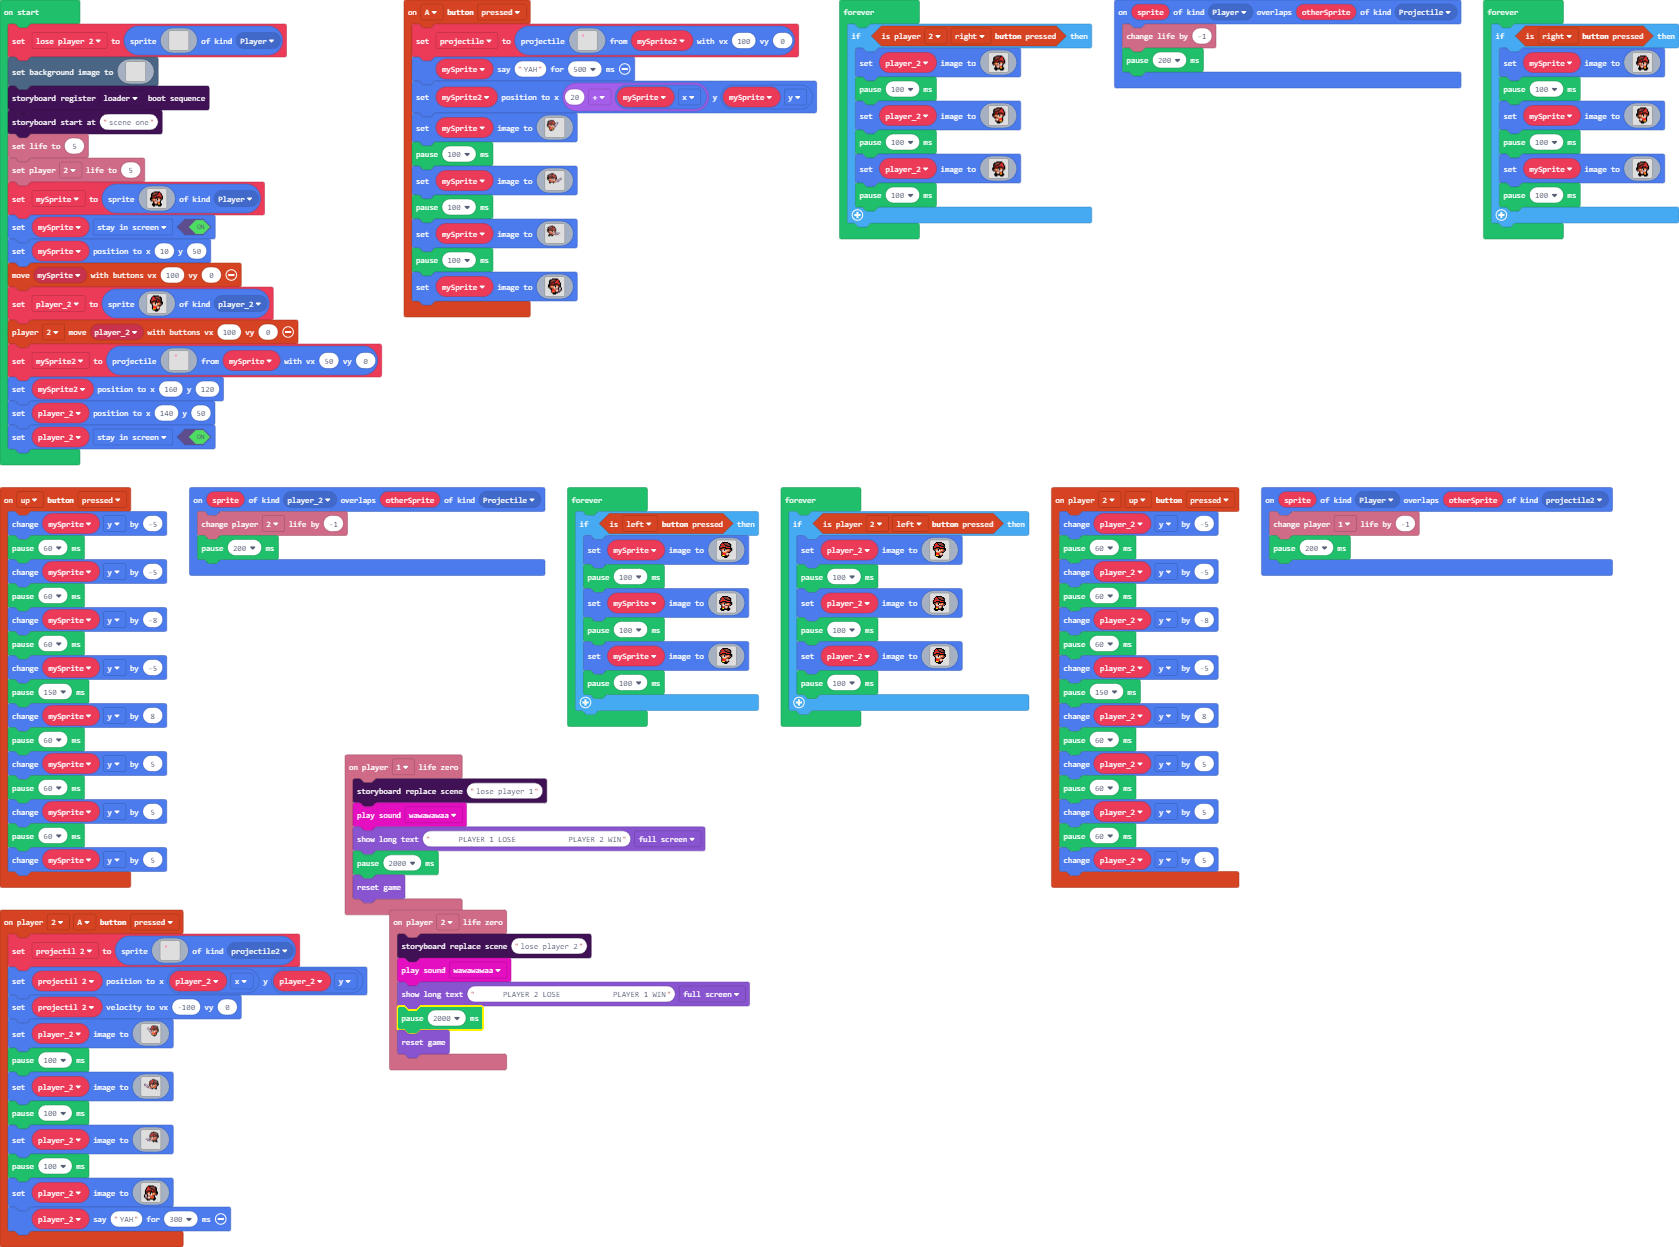
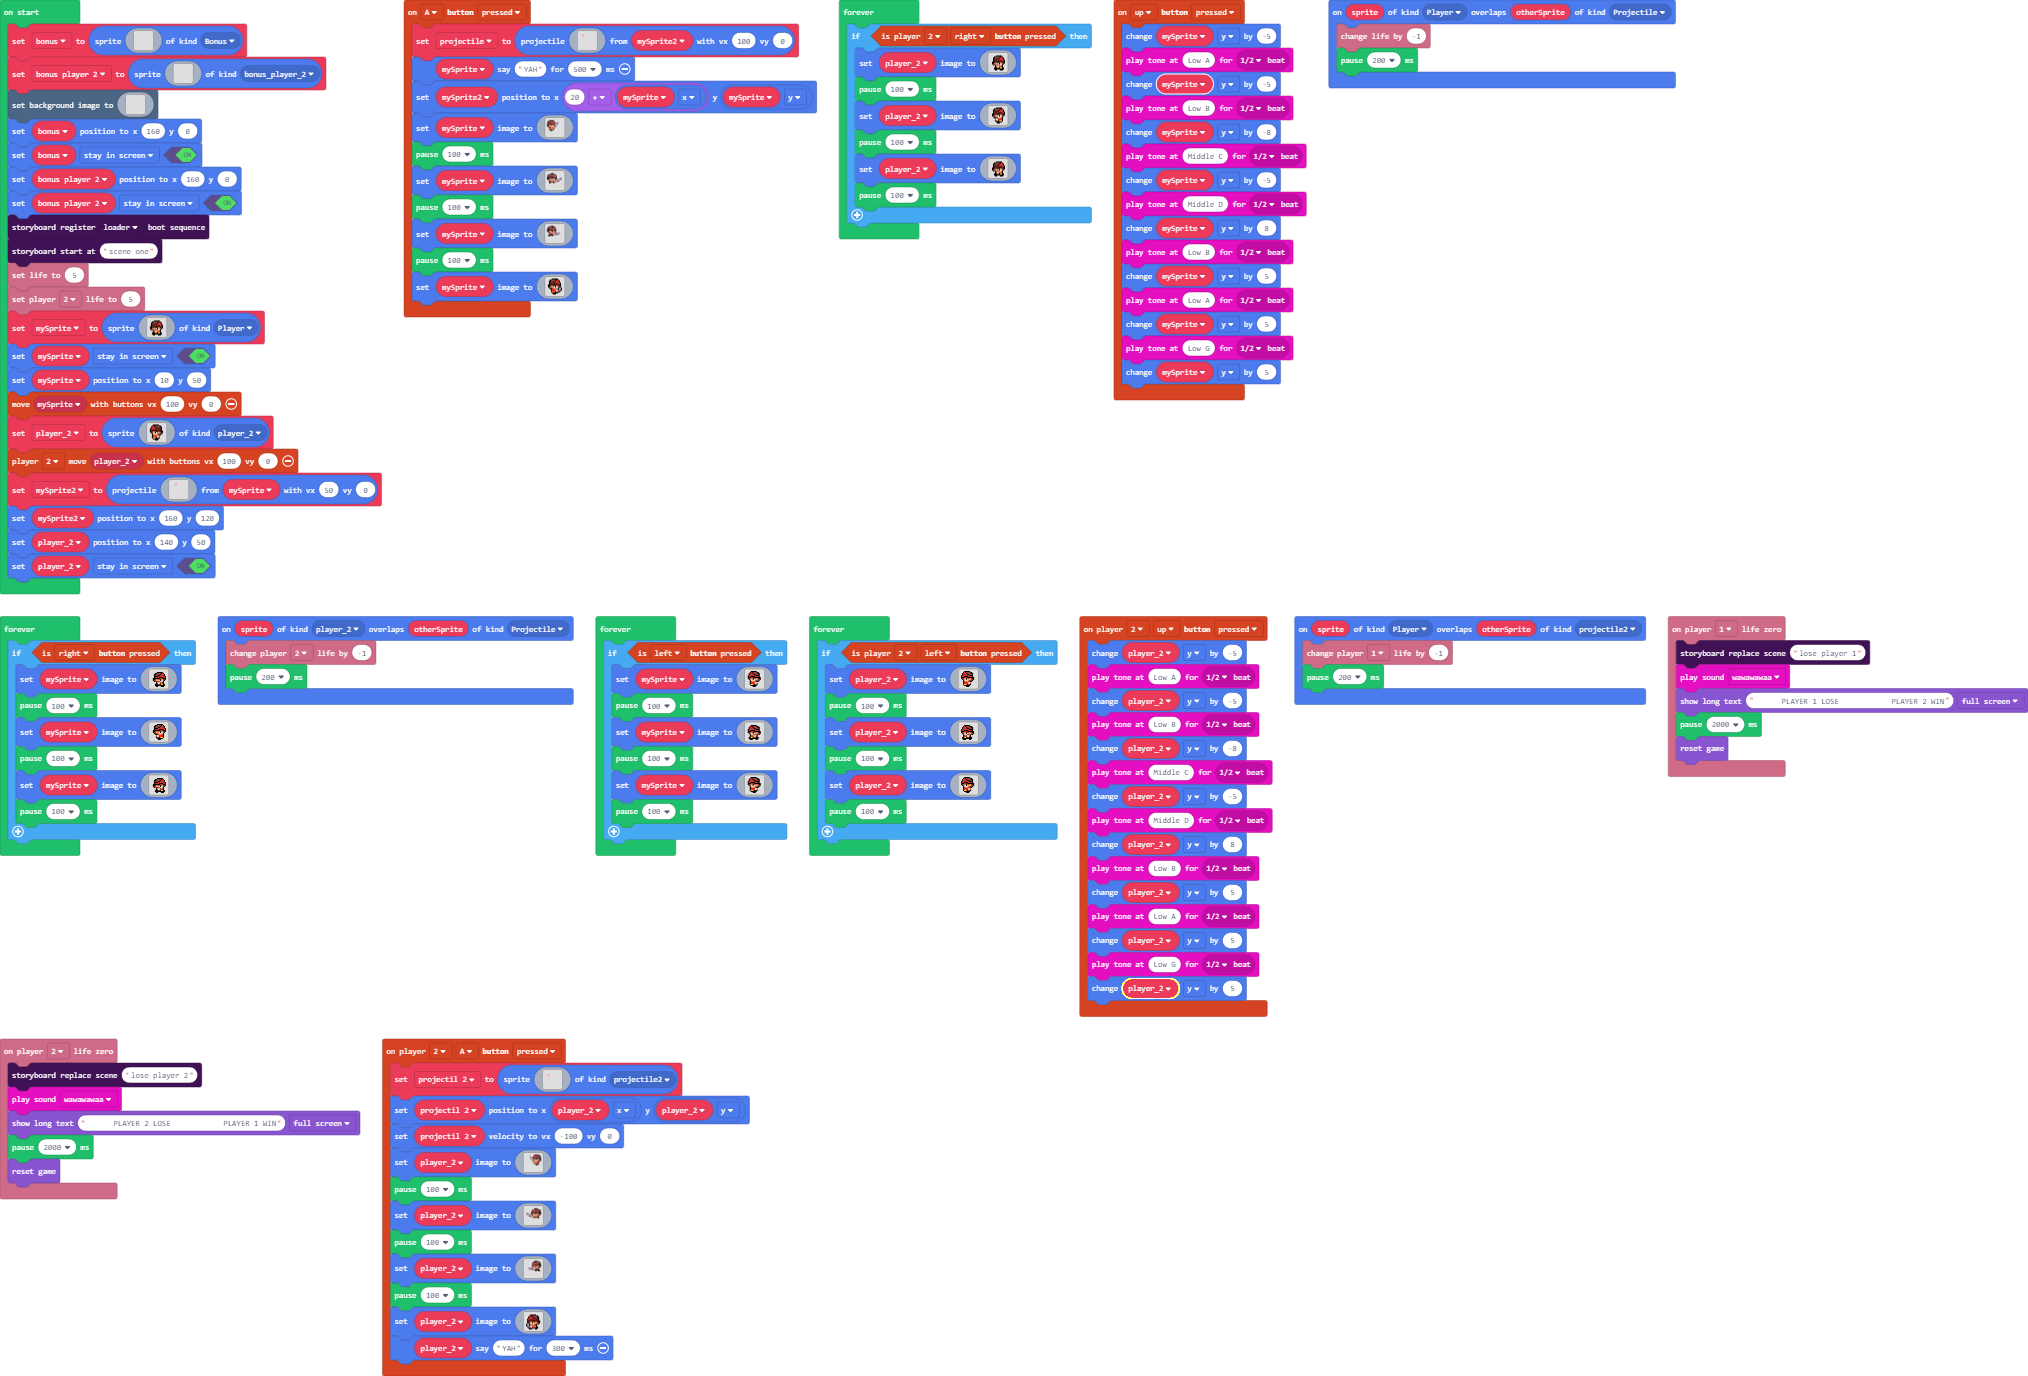
projet passé au stade de jeu

diff --git a/main.ts b/main.ts
@@ -1,6 +1,8 @@
 namespace SpriteKind {
     export const player_2 = SpriteKind.create()
     export const projectile2 = SpriteKind.create()
+    export const Bonus = SpriteKind.create()
+    export const bonus_player_2 = SpriteKind.create()
 }
 sprites.onOverlap(SpriteKind.player_2, SpriteKind.Projectile, function (sprite, otherSprite) {
     info.player2.changeLifeBy(-1)
@@ -266,36 +268,36 @@ f e f e 4 4 e b f 4 4 e e f . . . . . . . . . .
 })
 controller.player2.onButtonEvent(ControllerButton.Up, ControllerButtonEvent.Pressed, function () {
     player_2.y += -5
-    pause(60)
+    music.playTone(220, music.beat(BeatFraction.Half))
     player_2.y += -5
-    pause(60)
+    music.playTone(247, music.beat(BeatFraction.Half))
     player_2.y += -8
-    pause(60)
+    music.playTone(262, music.beat(BeatFraction.Half))
     player_2.y += -5
-    pause(150)
+    music.playTone(294, music.beat(BeatFraction.Half))
     player_2.y += 8
-    pause(60)
+    music.playTone(247, music.beat(BeatFraction.Half))
     player_2.y += 5
-    pause(60)
+    music.playTone(220, music.beat(BeatFraction.Half))
     player_2.y += 5
-    pause(60)
+    music.playTone(196, music.beat(BeatFraction.Half))
     player_2.y += 5
 })
 controller.up.onEvent(ControllerButtonEvent.Pressed, function () {
     mySprite.y += -5
-    pause(60)
+    music.playTone(220, music.beat(BeatFraction.Half))
     mySprite.y += -5
-    pause(60)
+    music.playTone(247, music.beat(BeatFraction.Half))
     mySprite.y += -8
-    pause(60)
+    music.playTone(262, music.beat(BeatFraction.Half))
     mySprite.y += -5
-    pause(150)
+    music.playTone(294, music.beat(BeatFraction.Half))
     mySprite.y += 8
-    pause(60)
+    music.playTone(247, music.beat(BeatFraction.Half))
     mySprite.y += 5
-    pause(60)
+    music.playTone(220, music.beat(BeatFraction.Half))
     mySprite.y += 5
-    pause(60)
+    music.playTone(196, music.beat(BeatFraction.Half))
     mySprite.y += 5
 })
 info.player1.onLifeZero(function () {
@@ -310,24 +312,74 @@ let projectil_2: Sprite = null
 let mySprite2: Sprite = null
 let player_2: Sprite = null
 let mySprite: Sprite = null
-let lose_player_2 = sprites.create(img`
-. . . . . . . . . . . . . . . . 
-. . . . . . . . . . . . . . . . 
-. . . . . . . . . . . . . . . . 
-. . . . . . . . . . . . . . . . 
-. . . . . . . . . . . . . . . . 
-. . . . . . . . . . . . . . . . 
-. . . . . . . . . . . . . . . . 
-. . . . . . . . . . . . . . . . 
-. . . . . . . . . . . . . . . . 
-. . . . . . . . . . . . . . . . 
-. . . . . . . . . . . . . . . . 
-. . . . . . . . . . . . . . . . 
-. . . . . . . . . . . . . . . . 
-. . . . . . . . . . . . . . . . 
-. . . . . . . . . . . . . . . . 
-. . . . . . . . . . . . . . . . 
-`, SpriteKind.Player)
+let bonus = sprites.create(img`
+. . . . . . . . . . . . . . . . . . . . . . . . . . . . . . . . 
+. . . . . . . . . . . . . . . . . . . . . . . . . . . . . . . . 
+. . . . . . . . . . . . . . . . . . . . . . . . . . . . . . . . 
+. . . . . . . . . . . . . . . . . . . . . . . . . . . . . . . . 
+. . . . . . . . . . . . . . . . . . . . . . . . . . . . . . . . 
+. . . . . . . . . . . . . . . . . . . . . . . . . . . . . . . . 
+. . . . . . . . . . . . . . . . . . . . . . . . . . . . . . . . 
+. . . . . . . . . . . . . . . . . . . . . . . . . . . . . . . . 
+. . . . . . . . . . . . . . . . . . . . . . . . . . . . . . . . 
+. . . . . . . . . . . . . . . . . . . . . . . . . . . . . . . . 
+. . . . . . . . . . . . . . . . . . . . . . . . . . . . . . . . 
+. . . . . . . . . . . . . . . . . . . . . . . . . . . . . . . . 
+. . . . . . . . . . . . . . . . . . . . . . . . . . . . . . . . 
+. . . . . . . . . . . . . . . . . . . . . . . . . . . . . . . . 
+. . . . . . . . . . . . . . . . . . . . . . . . . . . . . . . . 
+. . . . . . . . . . . . . . . . . . . . . . . . . . . . . . . . 
+. . . . . . . . . . . . . . . . . . . . . . . . . . . . . . . . 
+. . . . . . . . . . . . . . . . . . . . . . . . . . . . . . . . 
+. . . . . . . . . . . . . . . . . . . . . . . . . . . . . . . . 
+. . . . . . . . . . . . . . . . . . . . . . . . . . . . . . . . 
+. . . . . . . . . . . . . . . . . . . . . . . . . . . . . . . . 
+. . . . . . . . . . . . . . . . . . . . . . . . . . . . . . . . 
+. . . . . . . . . . . . . . . . . . . . . . . . . . . . . . . . 
+. . . . . . . . . . . . . . . . . . . . . . . . . . . . . . . . 
+. . . . . . . . . . . . . . . . . . . . . . . . . . . . . . . . 
+. . . . . . . . . . . . . . . . . . . . . . . . . . . . . . . . 
+. . . . . . . . . . . . . . . . . . . . . . . . . . . . . . . . 
+. . . . . . . . . . . . . . . . . . . . . . . . . . . . . . . . 
+. . . . . . . . . . . . . . . . . . . . . . . . . . . . . . . . 
+. . . . . . . . . . . . . . . . . . . . . . . . . . . . . . . . 
+. . . . . . . . . . . . . . . . . . . . . . . . . . . . . . . . 
+. . . . . . . . . . . . . . . . . . . . . . . . . . . . . . . . 
+`, SpriteKind.Bonus)
+let bonus_player_2 = sprites.create(img`
+. . . . . . . . . . . . . . . . . . . . . . . . . . . . . . . . 
+. . . . . . . . . . . . . . . . . . . . . . . . . . . . . . . . 
+. . . . . . . . . . . . . . . . . . . . . . . . . . . . . . . . 
+. . . . . . . . . . . . . . . . . . . . . . . . . . . . . . . . 
+. . . . . . . . . . . . . . . . . . . . . . . . . . . . . . . . 
+. . . . . . . . . . . . . . . . . . . . . . . . . . . . . . . . 
+. . . . . . . . . . . . . . . . . . . . . . . . . . . . . . . . 
+. . . . . . . . . . . . . . . . . . . . . . . . . . . . . . . . 
+. . . . . . . . . . . . . . . . . . . . . . . . . . . . . . . . 
+. . . . . . . . . . . . . . . . . . . . . . . . . . . . . . . . 
+. . . . . . . . . . . . . . . . . . . . . . . . . . . . . . . . 
+. . . . . . . . . . . . . . . . . . . . . . . . . . . . . . . . 
+. . . . . . . . . . . . . . . . . . . . . . . . . . . . . . . . 
+. . . . . . . . . . . . . . . . . . . . . . . . . . . . . . . . 
+. . . . . . . . . . . . . . . . . . . . . . . . . . . . . . . . 
+. . . . . . . . . . . . . . . . . . . . . . . . . . . . . . . . 
+. . . . . . . . . . . . . . . . . . . . . . . . . . . . . . . . 
+. . . . . . . . . . . . . . . . . . . . . . . . . . . . . . . . 
+. . . . . . . . . . . . . . . . . . . . . . . . . . . . . . . . 
+. . . . . . . . . . . . . . . . . . . . . . . . . . . . . . . . 
+. . . . . . . . . . . . . . . . . . . . . . . . . . . . . . . . 
+. . . . . . . . . . . . . . . . . . . . . . . . . . . . . . . . 
+. . . . . . . . . . . . . . . . . . . . . . . . . . . . . . . . 
+. . . . . . . . . . . . . . . . . . . . . . . . . . . . . . . . 
+. . . . . . . . . . . . . . . . . . . . . . . . . . . . . . . . 
+. . . . . . . . . . . . . . . . . . . . . . . . . . . . . . . . 
+. . . . . . . . . . . . . . . . . . . . . . . . . . . . . . . . 
+. . . . . . . . . . . . . . . . . . . . . . . . . . . . . . . . 
+. . . . . . . . . . . . . . . . . . . . . . . . . . . . . . . . 
+. . . . . . . . . . . . . . . . . . . . . . . . . . . . . . . . 
+. . . . . . . . . . . . . . . . . . . . . . . . . . . . . . . . 
+. . . . . . . . . . . . . . . . . . . . . . . . . . . . . . . . 
+`, SpriteKind.bonus_player_2)
 scene.setBackgroundImage(img`
 . . . . . . . . . . . . . . . . . . . . . . . . . . . . . . . . . . . . . . . . . . . . . . . . . . . . . . . . . . . . . . . . . . . . . . . . . . . . . . . . . . . . . . . . . . . . . . . . . . . . . . . . . . . . . . . . . . . . . . . . . . . . . . . . . . . . . . . . . . . . . . . . . . . . . . . . . . . . . . . . 
 . . . . . . . . . . . . . . . . . . . . . . . . . . . . . . . . . . . . . . . . . . . . . . . . . . . . . . . . . . . . . . . . . . . . . . . . . . . . . . . . . . . . . . . . . . . . . . . . . . . . . . . . . . . . . . . . . . . . . . . . . . . . . . . . . . . . . . . . . . . . . . . . . . . . . . . . . . . . . . . . 
@@ -450,6 +502,10 @@ scene.setBackgroundImage(img`
 . . . . . . . . . . . . . . . . . . . . . . . . . . . . . . . . . . . . . . . . . . . . . . . . . . . . . . . . . . . . . . . . . . . . . . . . . . . . . . . . . . . . . . . . . . . . . . . . . . . . . . . . . . . . . . . . . . . . . . . . . . . . . . . . . . . . . . . . . . . . . . . . . . . . . . . . . . . . . . . . 
 . . . . . . . . . . . . . . . . . . . . . . . . . . . . . . . . . . . . . . . . . . . . . . . . . . . . . . . . . . . . . . . . . . . . . . . . . . . . . . . . . . . . . . . . . . . . . . . . . . . . . . . . . . . . . . . . . . . . . . . . . . . . . . . . . . . . . . . . . . . . . . . . . . . . . . . . . . . . . . . . 
 `)
+bonus.setPosition(160, 0)
+bonus.setFlag(SpriteFlag.StayInScreen, true)
+bonus_player_2.setPosition(160, 0)
+bonus_player_2.setFlag(SpriteFlag.StayInScreen, true)
 storyboard.loaderBootSequence.register()
 storyboard.start("scene one")
 info.setLife(5)
